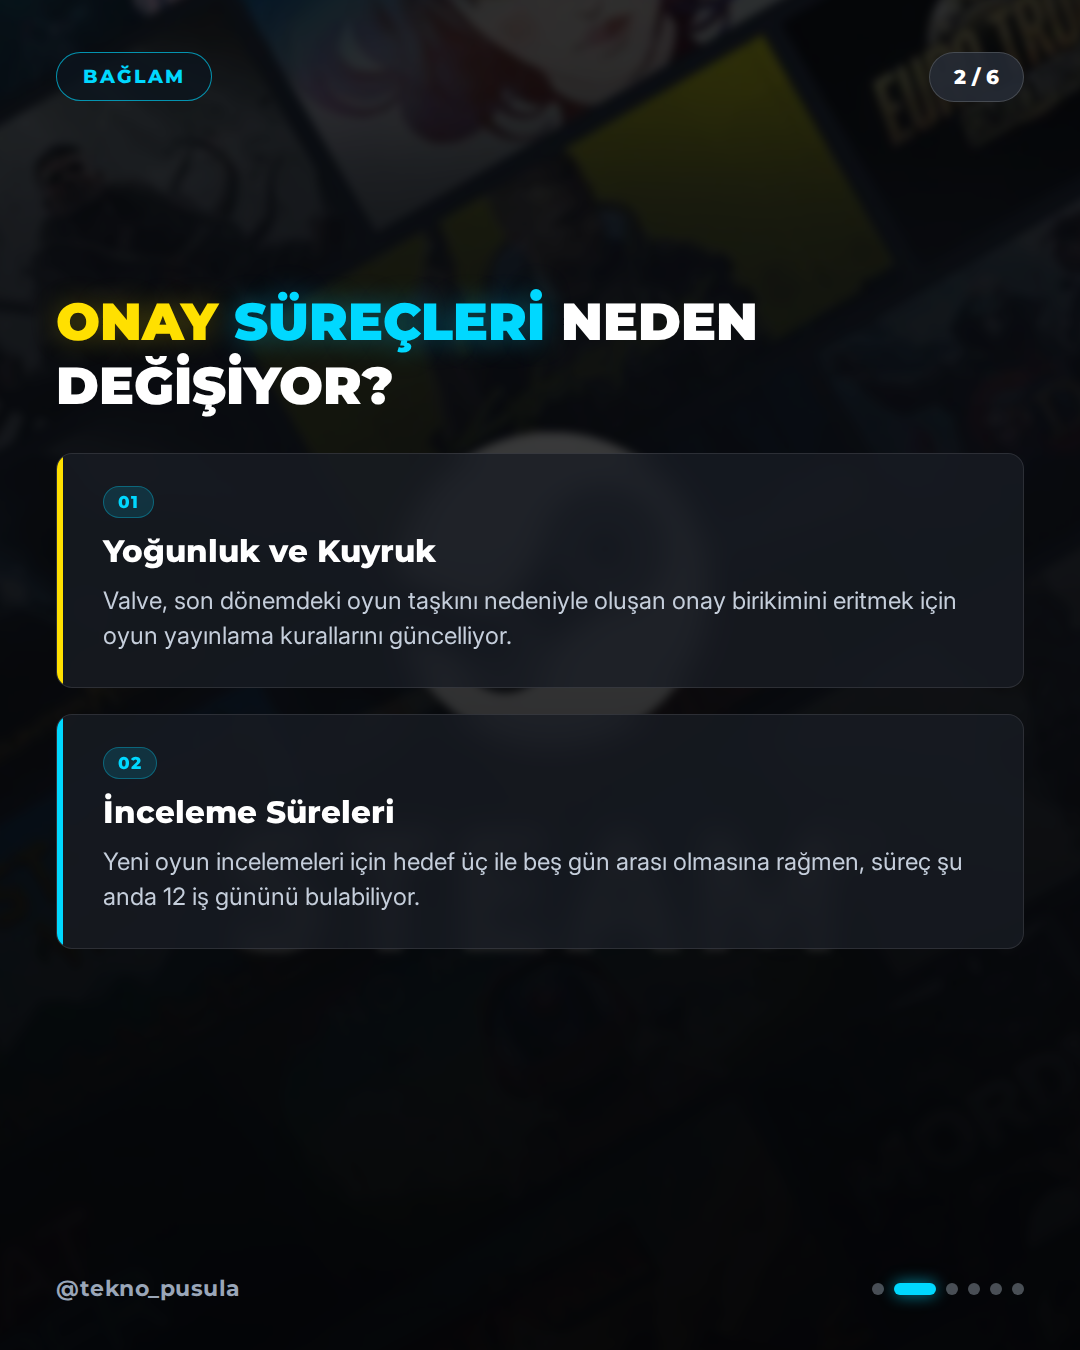
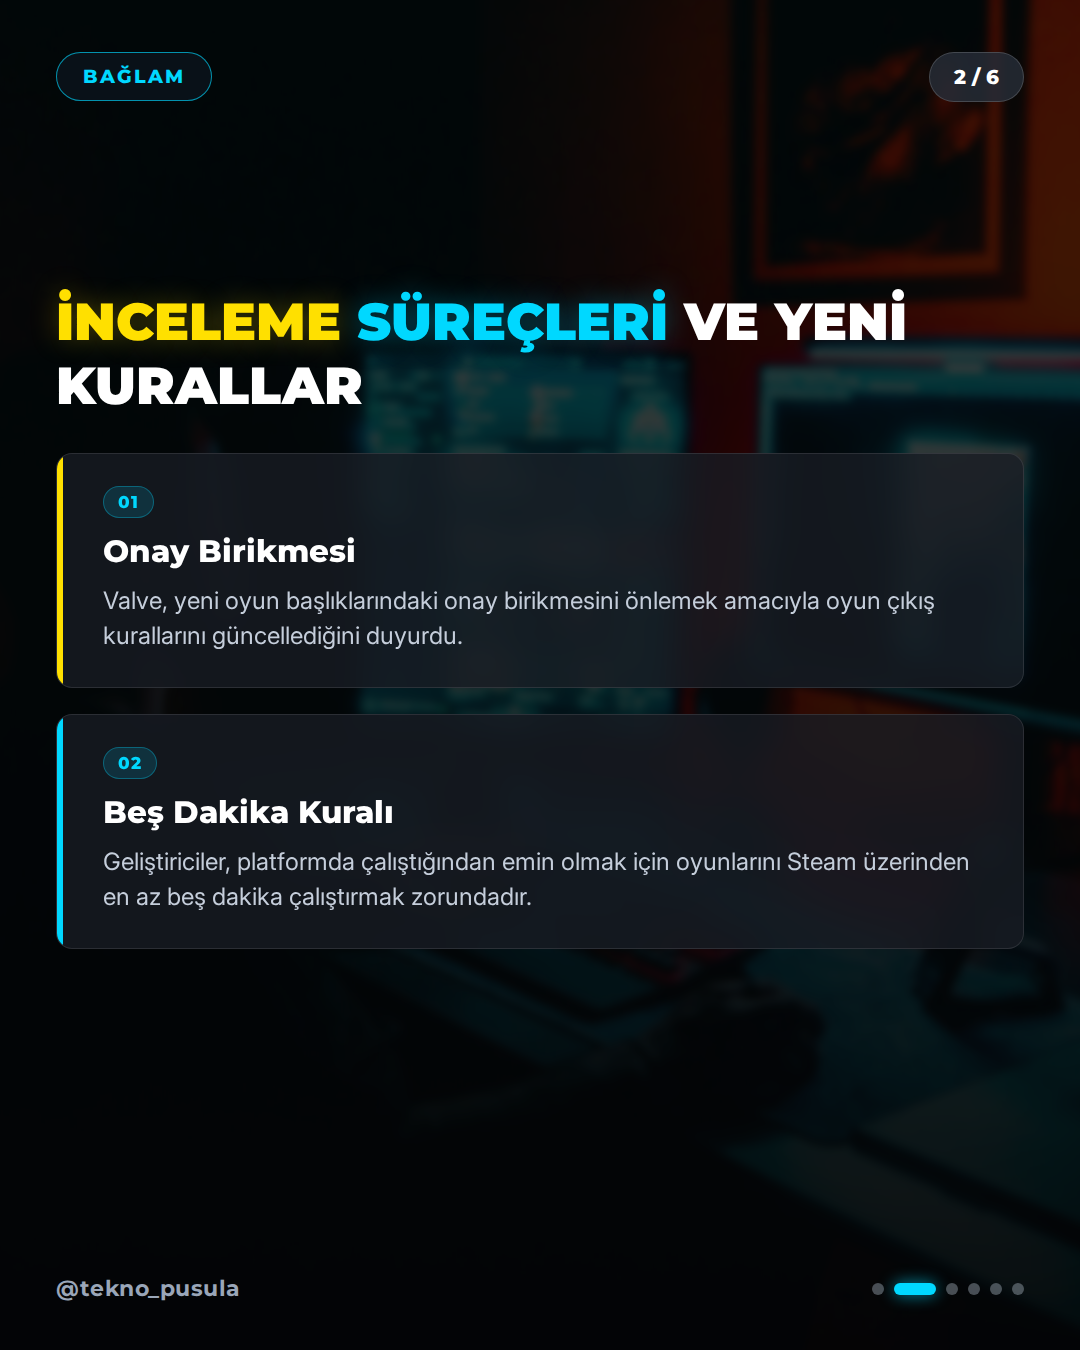
🤖 post: 2026-11-04 09:00 – Valve just changed its Steam release rules amid a flood of A

diff --git a/output/2026-11-04/01-0900-valve-just-changed-its-steam-release-rules-amid/verification.md b/output/2026-11-04/01-0900-valve-just-changed-its-steam-release-rules-amid/verification.md
@@ -3,54 +3,44 @@
 **Haber:** Valve just changed its Steam release rules amid a flood of AI games
 **Canonical URL:** https://www.engadget.com/2306215/valve-changed-its-steam-release-rules-amid-a-flood-of-ai-games/
 **Kaynaklar:** Engadget, The Verge, Ars Technica, BBC News – Technology
-**Kontrol zamanı:** 2026-11-04T11:33:53+03:00
+**Kontrol zamanı:** 2026-11-04T11:42:58+03:00
 **Sonuç:** ✅ YAYINLANABİLİR
 
 ---
 
 ## İddia Bazlı Sonuçlar
 
-### 1. Valve is updating its game release rules to unclog a backlog of approvals caused by a recent flood of new game titles.
+### 1. Valve, yeni oyun başlıklarındaki onay birikmesini önlemek amacıyla oyun çıkış kurallarını güncellediğini duyurdu.
 - **Karar:** ✅ `supported`
 - **Kanıtlar:**
   - [https://www.engadget.com/2306215/valve-changed-its-steam-release-rules-amid-a-flood-of-ai-games/](https://www.engadget.com/2306215/valve-changed-its-steam-release-rules-amid-a-flood-of-ai-games/)
-    > Valve is updating its game release rules to try to unclog a backlog of approvals due to a recent flood of new game titles
-  - [https://www.engadget.com/2306215/valve-changed-its-steam-release-rules-amid-a-flood-of-ai-games/](https://www.engadget.com/2306215/valve-changed-its-steam-release-rules-amid-a-flood-of-ai-games/)
     > Valve is updating its game release rules to try to unclog a backlog of approvals due to a recent flood of new game titles, many created with AI, the company announced.
 
-### 2. Valve's goal for new title reviews is three to five days, but it is currently taking up to 12 business days.
+### 2. Valve'ın yeni oyun incelemeleri için hedefi üç ila beş gün olmasına rağmen, süreç şu anda 12 iş gününe kadar sürmektedir.
 - **Karar:** ✅ `supported`
 - **Kanıtlar:**
   - [https://www.engadget.com/2306215/valve-changed-its-steam-release-rules-amid-a-flood-of-ai-games/](https://www.engadget.com/2306215/valve-changed-its-steam-release-rules-amid-a-flood-of-ai-games/)
     > Valve's goal for new title reviews is three to five days, but it's currently taking up to 12 business days.
 
-### 3. Developers must run their games through Steam for at least five minutes to ensure they work on the platform.
+### 3. Geliştiriciler, platformda çalıştığından emin olmak için oyunlarını Steam üzerinden en az beş dakika çalıştırmak zorundadır.
 - **Karar:** ✅ `supported`
 - **Kanıtlar:**
-  - [https://www.engadget.com/2306215/valve-changed-its-steam-release-rules-amid-a-flood-of-ai-games/](https://www.engadget.com/2306215/valve-changed-its-steam-release-rules-amid-a-flood-of-ai-games/)
-    > developers must run their games through Steam for at least five minutes to ensure it works on the platform.
   - [https://www.engadget.com/2306215/valve-changed-its-steam-release-rules-amid-a-flood-of-ai-games/](https://www.engadget.com/2306215/valve-changed-its-steam-release-rules-amid-a-flood-of-ai-games/)
     > First and foremost, developers must run their games through Steam for at least five minutes to ensure it works on the platform.
 
-### 4. Valve is requiring developers to confirm common redistributables like DirectX and Visual C++, check achievements, confirm Steam Cloud save paths, and categorize screenshots.
-- **Karar:** ✅ `supported`
-- **Kanıtlar:**
-  - [https://www.engadget.com/2306215/valve-changed-its-steam-release-rules-amid-a-flood-of-ai-games/](https://www.engadget.com/2306215/valve-changed-its-steam-release-rules-amid-a-flood-of-ai-games/)
-    > Valve is also requiring devs to confirm common redistributables like DirectX and Visual C++, check that achievements are ready, confirm that Steam Cloud save paths are configured correctly, and categorize screenshots as gameplay, menus, concept art or cinematics.
-
-### 5. Reddit user u/ploz found that 49.9 percent of games released on Steam in October disclosed AI-generated content.
+### 4. Reddit kullanıcısı u/ploz'un verilerine göre, Ekim ayında Steam'de yayınlanan oyunların yüzde 49.9'u yapay zeka üreten içerik bildirdi.
 - **Karar:** ✅ `supported`
 - **Kanıtlar:**
   - [https://www.engadget.com/2306215/valve-changed-its-steam-release-rules-amid-a-flood-of-ai-games/](https://www.engadget.com/2306215/valve-changed-its-steam-release-rules-amid-a-flood-of-ai-games/)
     > That data was confirmed by Reddit user u/ploz, who found that 49.9 percent of games released on Steam in October disclosed AI-generated content.
 
-### 6. In June, nearly 20 percent of Next Fest game demos disclosed the use of AI.
+### 5. Haziran ayında Next Fest oyun demolarının yüzde 20'ye yakını yapay zeka kullanımını bildirdi.
 - **Karar:** ✅ `supported`
 - **Kanıtlar:**
   - [https://www.engadget.com/2306215/valve-changed-its-steam-release-rules-amid-a-flood-of-ai-games/](https://www.engadget.com/2306215/valve-changed-its-steam-release-rules-amid-a-flood-of-ai-games/)
     > In June, nearly 20 percent of Next Fest game demos disclosed the use of AI.
 
-### 7. Cubic Earth developer structmira stated that their game's trailer amassed more than 60,000 views on YouTube and over 6,000 wishlists.
+### 6. Cubic Earth geliştiricisi structmira, oyunlarının fragmanının YouTube'da 60.000'den fazla izlenme topladığını ve 6.000'den fazla istek listesine eklendiğini belirtti.
 - **Karar:** ✅ `supported`
 - **Kanıtlar:**
   - [https://www.engadget.com/2306215/valve-changed-its-steam-release-rules-amid-a-flood-of-ai-games/](https://www.engadget.com/2306215/valve-changed-its-steam-release-rules-amid-a-flood-of-ai-games/)
@@ -62,13 +52,12 @@
 
 | İddia | 1. Tur | 2. Tur | Nihai |
 |-------|--------|--------|-------|
-| Valve is updating its game release rules to unclog a backlog | supported | supported | supported |
-| Valve's goal for new title reviews is three to five days, bu | supported | supported | supported |
-| Developers must run their games through Steam for at least f | supported | supported | supported |
-| Valve is requiring developers to confirm common redistributa | supported | supported | supported |
-| Reddit user u/ploz found that 49.9 percent of games released | supported | supported | supported |
-| In June, nearly 20 percent of Next Fest game demos disclosed | supported | supported | supported |
-| Cubic Earth developer structmira stated that their game's tr | supported | supported | supported |
+| Valve, yeni oyun başlıklarındaki onay birikmesini önlemek am | supported | supported | supported |
+| Valve'ın yeni oyun incelemeleri için hedefi üç ila beş gün o | supported | supported | supported |
+| Geliştiriciler, platformda çalıştığından emin olmak için oyu | supported | supported | supported |
+| Reddit kullanıcısı u/ploz'un verilerine göre, Ekim ayında St | supported | supported | supported |
+| Haziran ayında Next Fest oyun demolarının yüzde 20'ye yakını | supported | supported | supported |
+| Cubic Earth geliştiricisi structmira, oyunlarının fragmanını | supported | supported | supported |
 
 ## Kaynak Metinleri
 

diff --git a/output/2026-11-04/01-0900-valve-just-changed-its-steam-release-rules-amid/captions.md b/output/2026-11-04/01-0900-valve-just-changed-its-steam-release-rules-amid/captions.md
@@ -2,52 +2,40 @@
 
 ## INSTAGRAM
 
-Valve, Steam'deki oyun yoğunluğunu azaltmak ve onay kuyruklarını eritmek için yeni kurallar getiriyor! Artık geliştiricilerin oyunları en az beş dakika test etmesi ve teknik kontrolleri tamamlaması gerekiyor. Ayrıca ekim ayında çıkan oyunların neredeyse %49.9'unun yapay zeka içerdiği belirtiliyor. Sizce bu yeni kurallar onay süreçlerini hızlandıracak mı?
+Valve, Steam oyun çıkış kurallarında onay birikmesini önlemek için önemli değişiklikler yaptığını duyurdu! Artık geliştiricilerin oyunlarını en az 5 dakika çalıştırması gerekiyor. Süreçlerin 12 iş gününe kadar uzadığı da paylaşılan detaylar arasında. Steam'in bu yeni kuralları hakkında ne düşünüyorsunuz? Kaynak: Engadget
 
-Kaynak: Engadget, The Verge
-
-#Steam #Valve #OyunDünyası #Teknoloji #Geliştirici #YapayZeka #Gaming #PCGaming #TeknoPusula #Haber
+#Steam #Valve #OyunGeliştirme #TeknolojiHaberleri #GamingNews #GameDev #PCGaming #SteamUpdate
 
 ## TIKTOK
 
-Steam kuralları değişiyor! Onay kuyruklarını eritmek için gelen yeni şartlar neler? Kaynak: Engadget, The Verge
+Steam'in yeni oyun çıkış kuralları açıklandı! Geliştiricilere artık beş dakika kuralı geldi. Detaylar videoda! Kaynak: The Verge
 
-#Steam #Valve #Gaming #Teknoloji #Oyun
+#Steam #Gaming #Valve #Teknoloji #Oyun
 
 ## X
 
-Valve, Steam'deki onay kuyruklarını eritmek için yeni kurallar getirdi. Artık oyunların en az beş dakika çalıştırılması zorunlu. Ekim ayındaki oyunların %49.9'u ise yapay zeka içeriyor. Sizce bu süreçleri hızlandırır mı? Kaynak: Engadget, The Verge
+Valve, Steam oyun çıkış kurallarını güncelledi! Onay sürecinin 12 iş gününe çıkması üzerine yeni 'beş dakika kuralı' getirildi. Sizce bu hamle süreci hızlandırır mı? Kaynak: Engadget
 
 #Steam #Valve
 
 ## THREADS
 
-Valve'dan Steam Kurallarına Yeni Güncelleme 🎮
+Valve'dan Steam Oyun Çıkış Kurallarında Değişiklik 🎮
 
-Artan oyun yoğunluğu ve onay kuyrukları nedeniyle Valve, geliştiriciler için yeni şartlar getirdi. Artık oyunların Steam'de en az beş dakika çalıştırılması ve teknik kontrollerin yapılması zorunlu.
+Onay birikmesini önlemek amacıyla geliştiricilere oyunlarını en az beş dakika çalıştırma zorunluluğu getirildi. Süreçlerin 12 iş gününe kadar uzadığı belirtiliyor.
 
-Sizce bu yeni test kuralları süreçleri hızlandıracak mı?
-
-💭 Kaynak: Engadget, The Verge
+Sizce bu yeni kurallar yeterli olacak mı? 💭 Kaynak: The Verge
 
 #Steam
 
 ## LINKEDIN
 
-Valve, artan oyun yoğunluğu ve onay kuyruklarını yönetmek adına Steam yayınlama kurallarında önemli bir güncellemeye gitti. Yeni kurallara göre geliştiriciler, oyunların platformda sorunsuz çalıştığını kanıtlamak için en az beş dakika test etmek ve çeşitli teknik kontrolleri tamamlamak zorunda. Sektördeki yapay zeka içerikli oyun oranının ekim ayında %49.9'a ulaştığı göz önüne alındığında, bu hamlenin platform kalitesini artırması bekleniyor.
+Valve, platformdaki onay birikmelerini önlemek amacıyla Steam oyun çıkış kurallarında güncellemeye gitti. Yeni düzenlemeye göre geliştiricilerin, oyunların çalıştığından emin olmak için platform üzerinden en az beş dakika çalıştırması zorunlu kılundu. İnceleme süreçlerinin 12 iş gününe kadar uzadığı bu dönemde, platform kalitesini artırmaya yönelik hamleler sektörel açıdan yakından takip ediliyor. Sizin bu konudaki değerlendirmeleriniz nelerdir? Kaynak: Engadget
 
-Sizce Steam'in yeni kuralları geliştirici süreçlerini nasıl etkiler?
-
-Kaynak: Engadget, The Verge
-
-#Steam #Valve #OyunGelistirme #Teknoloji #YapayZeka
+#Steam #Valve #GameDevelopment #Teknoloji #Yazılım
 
 ## FACEBOOK
 
-Valve, Steam'deki oyun yoğunluğunu azaltmak ve uzun onay kuyruklarını eritmek için kurallarını güncelledi! Yeni düzenlemeye göre geliştiriciler, oyunlarını en az beş dakika çalıştırmak ve teknik kontrolleri sağlamak zorunda. Ekim ayında çıkan oyunların %49.9'unun yapay zeka içerdiği de raporda yer alıyor.
+Valve, Steam oyun çıkış kurallarında onay birikmesini önlemek için yeni kurallar duyurdu! Geliştiricilere getirilen beş dakika kuralı ve 12 iş gününe uzayan inceleme süreçleri hakkında ne düşünüyorsunuz? Kaynak: Engadget
 
-Sizce bu yeni test kuralları onay süreçlerini hızlandıracak mı?
-
-Kaynak: Engadget, The Verge
-
-#Steam #Valve #Teknoloji #OyunDunyasi #TeknoPusula
+#Steam #Valve #TeknolojiHaberleri #OyunDünyası
